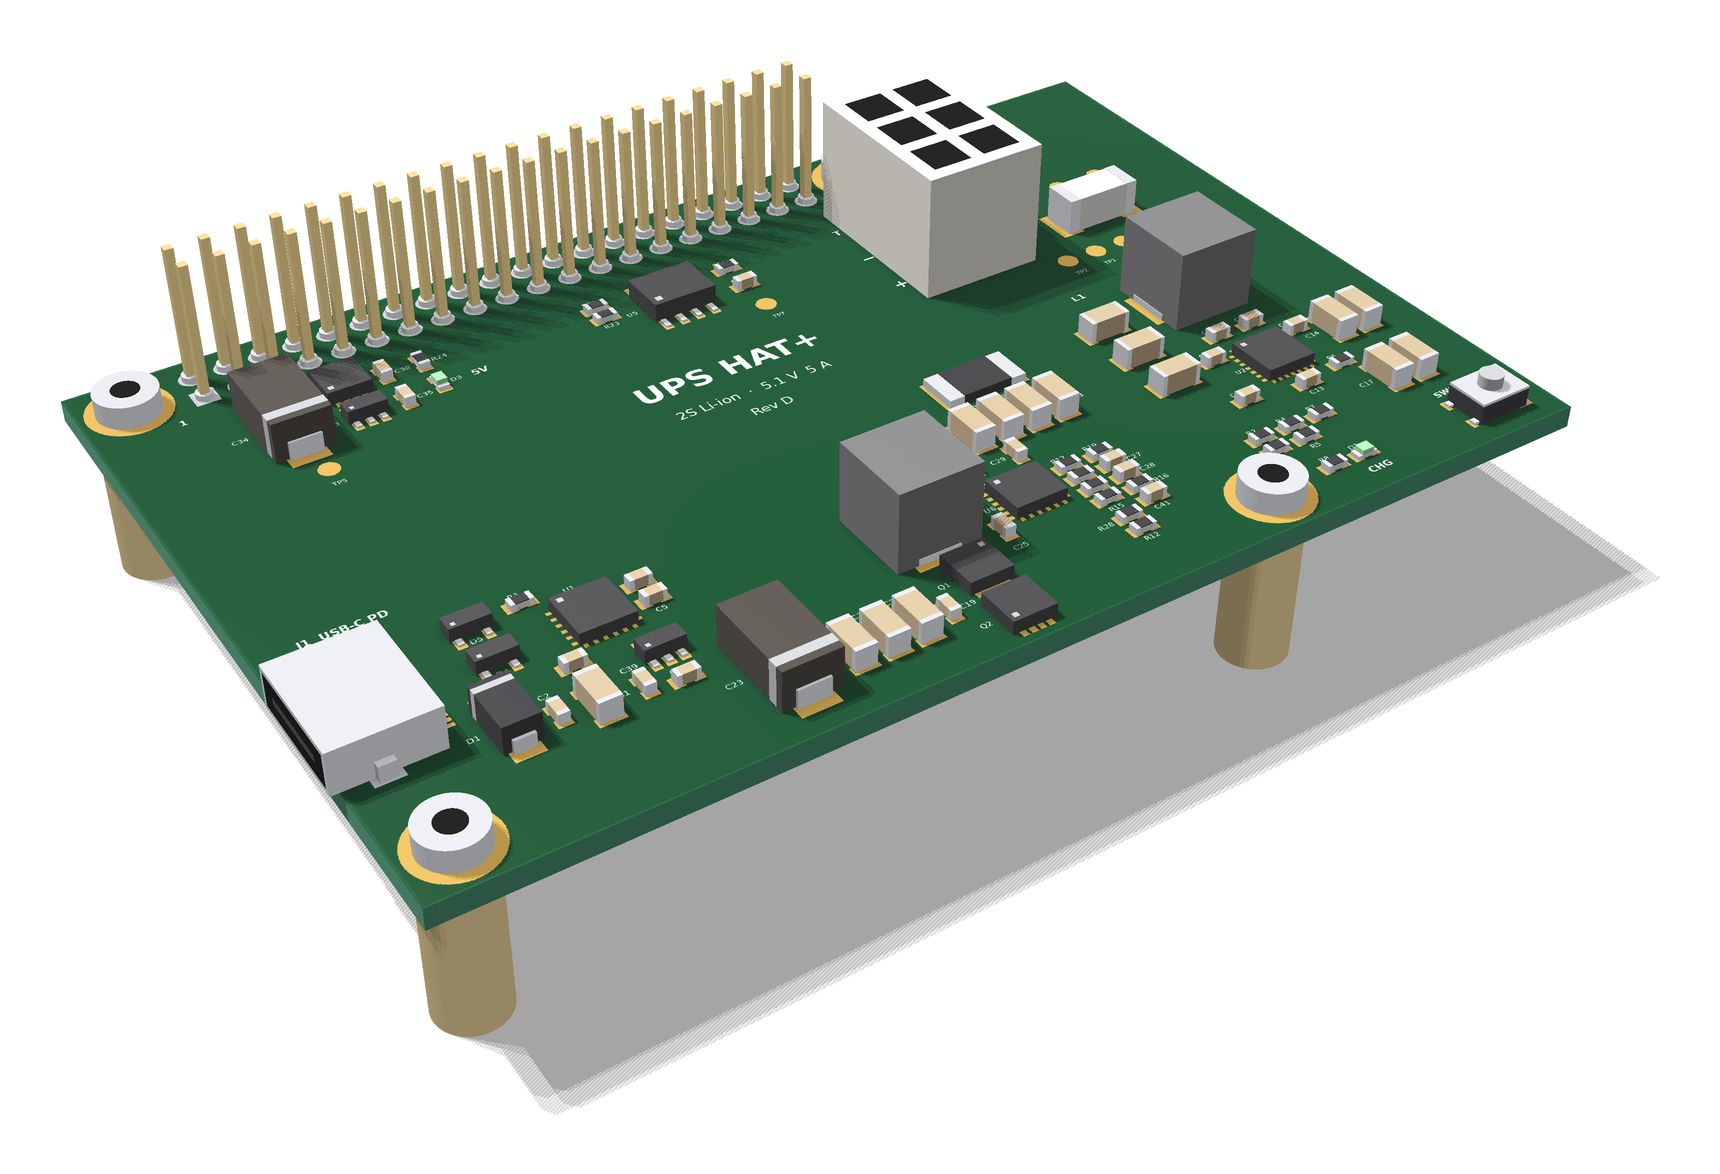
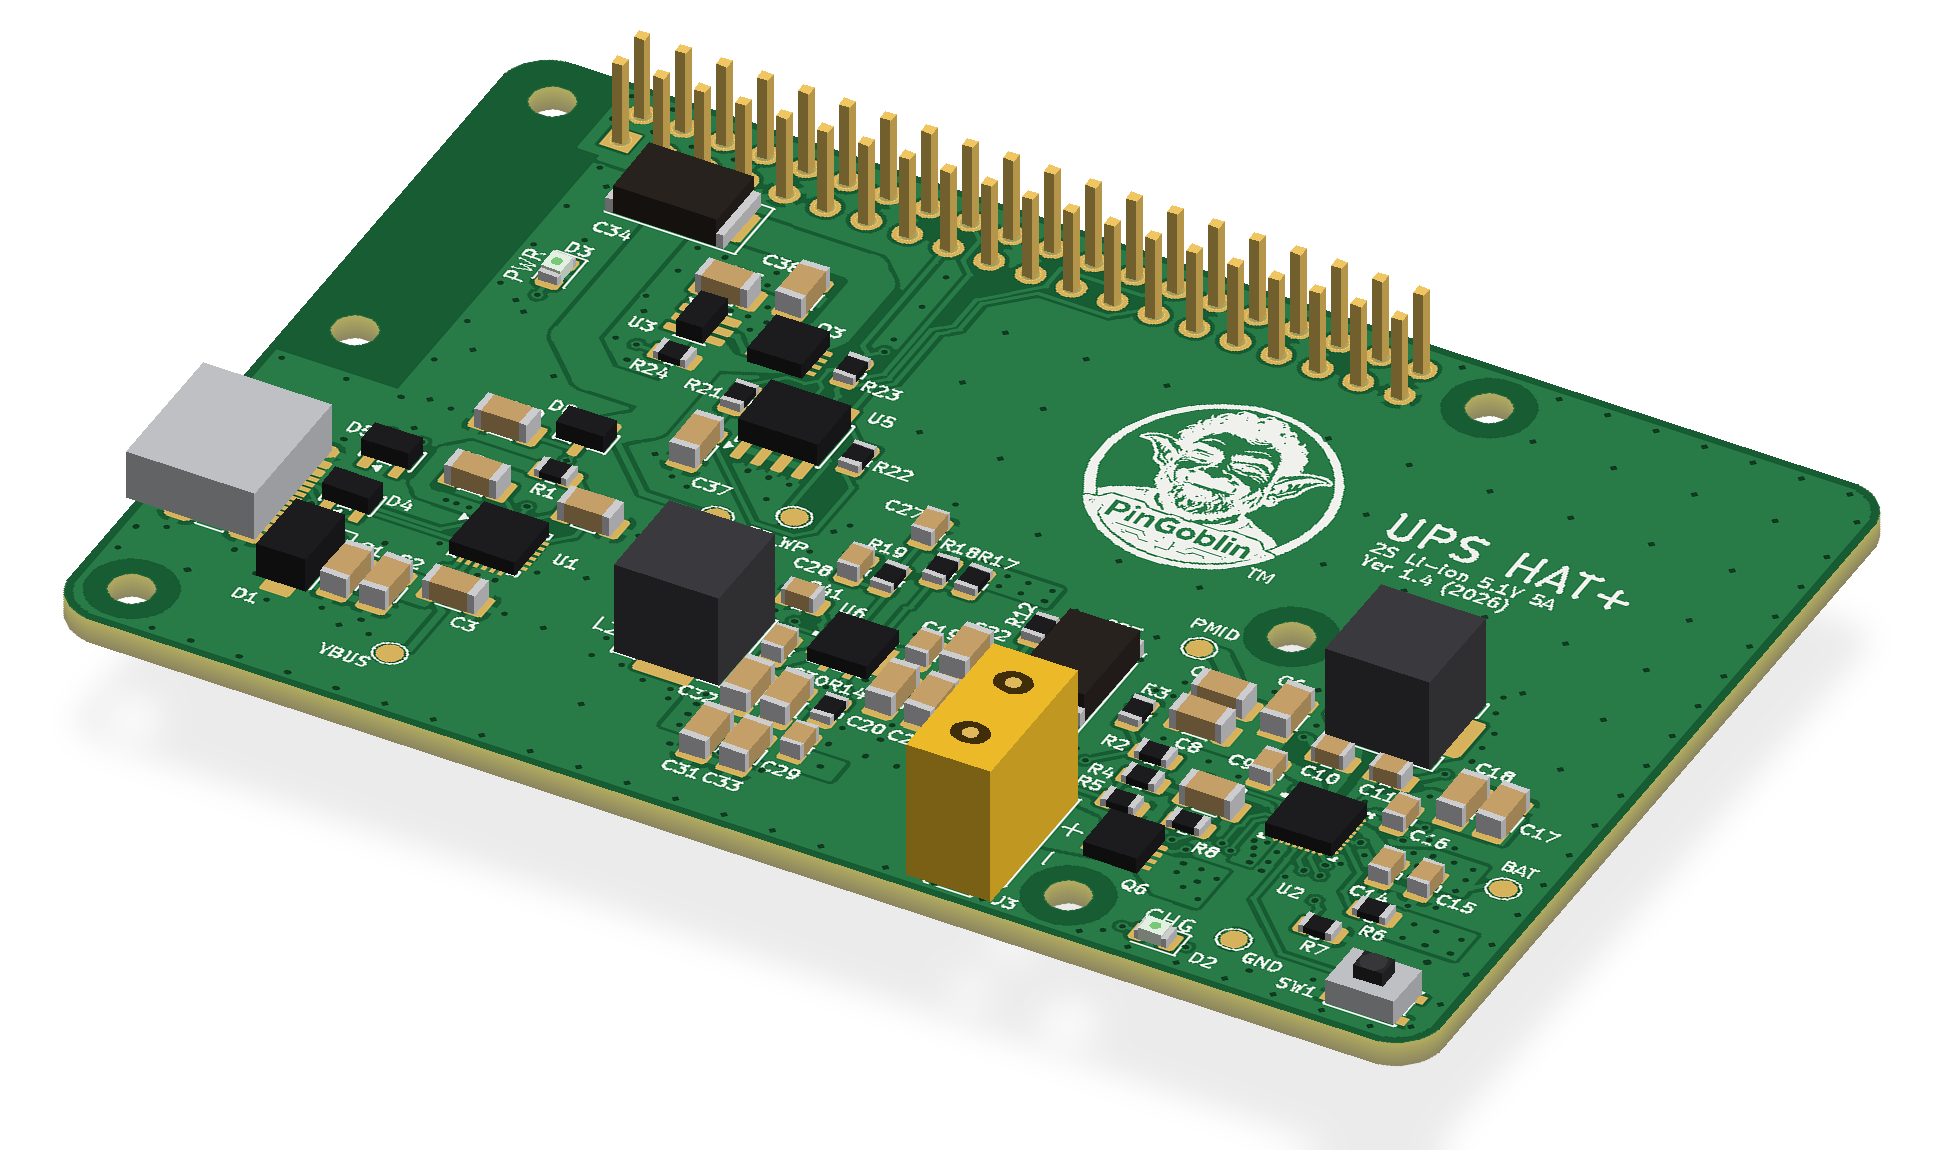
Manual: new board images rendered from the Ver 1.4 production Gerbers
- Angled view (front page) and labelled top view (Board overview) of the current Rev D board,
  replacing the early renders that showed the old 4-way battery terminal.
- Captions rewritten; board overview names the LEDs, button and test pads as marked on
  the silkscreen (PWR, CHG, QON; VBUS, PMID, SYS, BAT, 5V1, GND, EE_WP). The 5V LED is
  now called the PWR LED throughout.

Claude-Session: https://claude.ai/code/session_01XXg2TNVW3rDWtr7LNzpcKF

diff --git a/docs/manual/troubleshooting.md b/docs/manual/troubleshooting.md
@@ -4,13 +4,13 @@
 | --- | --- | --- |
 | Nothing happens when the pack is plugged in | Pack switch OFF; a newly fitted pack, or a pack just switched back ON, that has not yet seen USB-C power; pack below the 6.36 V turn-on; or the pack's protection has switched it off after a deep discharge | Switch the pack ON. Plug in the USB-C adapter: it wakes the board and the pack, and charges the pack. After a ship-mode shutdown, press SW1. |
 | Board runs from the adapter but never from the battery | Pack switched off, a cell missing or reversed, pack over-discharged, or the pack's temperature cut-off is active | Unplug the adapter and the pack. Check the pack switch and each cell's orientation. Let a hot pack cool, then reconnect and charge for at least 30 minutes. |
-| 5V LED off on battery, but on with the adapter | Cells are flat, or the pack's over-discharge protection has switched it off | Charge with the adapter connected for at least 30 minutes. If it still will not run on battery, measure each cell; replace any cell below 2.0 V. |
+| PWR LED off on battery, but on with the adapter | Cells are flat, or the pack's over-discharge protection has switched it off | Charge with the adapter connected for at least 30 minutes. If it still will not run on battery, measure each cell; replace any cell below 2.0 V. |
 | Battery will not charge at all | A cell is above 4.25 V, so the pack blocks charging; or a cell is dead | Measure each cell. Replace a dead or mismatched cell with a new cell matching the other. |
 | Pack switches off by itself | Temperature cut-off (about 60 °C) | Let it cool, then connect the adapter to bring it back. Improve ventilation round the pack, keep it out of the sun and away from the board's hot parts. |
 | CHG LED blinking, battery not charging | Charge fault, such as the charge safety timer expiring or a cell over-voltage | Unplug and reconnect the adapter. If it continues, check each cell's voltage and replace mismatched cells. |
 | i2cdetect -y 1 does not show 6b or 28 | I²C not enabled, or the board is not seated correctly | Enable I²C with sudo raspi-config and reboot. Check the header is not offset by a pin. |
 | ups-hat log shows No such file or directory: /dev/i2c-1 | I²C is not enabled | Enable I²C with sudo raspi-config and reboot. |
-| ups-hat log shows Remote I/O error | The board was off, or another device is holding the bus | Check the 5V LED is on. Remove other I²C HATs and try again. |
+| ups-hat log shows Remote I/O error | The board was off, or another device is holding the bus | Check the PWR LED is on. Remove other I²C HATs and try again. |
 | Battery current reads 0 A, or no readings | The ups-hat service is not running | Start it with sudo systemctl enable --now ups-hat, or install it (see [Raspberry Pi configuration](pi-configuration.md)). |
 | Charging at 8.4 V or 1 A after unplugging the pack | Disconnecting the pack resets the charger to its defaults | Normal. The service re-applies its settings within a few seconds. |
 | Charge % wrong after fitting new cells | The estimate re-calibrates at the next full charge | Charge fully once with the adapter connected, and check that `UPS_HAT_CELLS_PARALLEL` and `UPS_HAT_CELL_MAH` in the service match your pack. |

diff --git a/docs/manual/board-overview.md b/docs/manual/board-overview.md
@@ -4,7 +4,7 @@ Power flows in one direction: USB-C input → charger → system rail (shared wi
 
 ![UPS HAT+ top view with labelled connectors, controls and key components](images/ups-hat-top.png)
 
-*Top view from an earlier placement plan. On production boards the battery connector J3 is a vertical XT30 at the bottom edge, and the protection parts shown near the old terminal are on the pack board instead.*
+*Top view of the Rev D board (Ver 1.4), rendered from the production Gerber files. The 40-pin header J2 is fitted underneath; only its pins show on top. The battery protection is on the UPS Pack board, not on the HAT.*
 
 **Connectors, controls and indicators**
 
@@ -13,10 +13,10 @@ Power flows in one direction: USB-C input → charger → system rail (shared wi
 | J1 | USB-C input | Connect a USB-C power adapter here. Power only, no data. |
 | J2 | 40-pin header | Connects to the Raspberry Pi. Supplies 5.1 V and carries I²C. |
 | J3 | Battery connector (XT30, male) | Takes the pack's XT30 plug: pad 1 GND (−), pad 2 battery +. |
-| SW1 | Power button | Short press: wakes the board from its off (ship) state. Long press (about 15 s): resets power to the Pi. |
-| D2 | Green LED, CHG | On: charging. Off: charge complete or no input. Blinking: charge fault. |
-| D3 | Green LED, 5V | On: 5.1 V output to the Pi is active. |
-| TP1–TP7 | Test pads | For service measurements: VBUS, PMID, SYS, BAT, 5V OUT, GND, EEPROM WP. |
+| SW1 | Power button (marked QON) | Short press: wakes the board from its off (ship) state. Long press (about 15 s): resets power to the Pi. |
+| D2 | Green LED (marked CHG) | On: charging. Off: charge complete or no input. Blinking: charge fault. |
+| D3 | Green LED (marked PWR) | On: 5.1 V output to the Pi is active. |
+| VBUS, PMID, SYS, BAT, 5V1, GND, EE_WP | Test pads | For service measurements, each marked with its signal: USB-C input, charger input, system rail, battery, 5.1 V output, ground and EEPROM write-protect. |
 
 **Battery connector J3 (XT30)**
 

diff --git a/docs/manual/operation.md b/docs/manual/operation.md
@@ -4,11 +4,11 @@ The board has no on-board processor. The Raspberry Pi reads the board over I²C 
 
 | State | What happens | LEDs |
 | --- | --- | --- |
-| Mains power | Adapter powers the Pi and charges the battery. | 5V on; CHG on while charging |
-| Battery power | Battery powers the Pi with no interruption. | 5V on; CHG off |
-| Low battery | The ups-hat service shuts the Pi down at 5 % remaining. | 5V on until shutdown completes |
+| Mains power | Adapter powers the Pi and charges the battery. | PWR on; CHG on while charging |
+| Battery power | Battery powers the Pi with no interruption. | PWR on; CHG off |
+| Low battery | The ups-hat service shuts the Pi down at 5 % remaining. | PWR on until shutdown completes |
 | Off (ship mode) | After a shutdown on battery, the board disconnects the battery. Standby drain is a few microamps. | All off |
-| Hardware cut-off | If no software acts, the output switches off at about 5.6 V pack voltage. | 5V off |
+| Hardware cut-off | If no software acts, the output switches off at about 5.6 V pack voltage. | PWR off |
 
 **Turning on:** plug in the USB-C adapter, or press SW1 briefly to start from battery.
 

diff --git a/docs/manual/installation.md b/docs/manual/installation.md
@@ -9,7 +9,7 @@ You will need four M2.5 standoffs with screws, a USB-C PD adapter that offers 9 
 5. Fix the board to the standoffs with the four screws.
 6. Prepare the pack. With its switch OFF, measure each cell and keep them within 0.1 V of each other. Fit the cells following the + marks: BT1 (and BT3) first, then BT2 (and BT4).
 7. Switch the pack ON and plug its XT30 lead into J3.
-8. Connect the USB-C adapter to J1. The 5V LED lights, the Pi starts, and the CHG LED lights while the cells charge. A newly fitted pack gives no output until the HAT has had USB-C power once, so the first start must be on the adapter.
+8. Connect the USB-C adapter to J1. The PWR LED lights, the Pi starts, and the CHG LED lights while the cells charge. A newly fitted pack gives no output until the HAT has had USB-C power once, so the first start must be on the adapter.
 9. Continue with [Raspberry Pi configuration](pi-configuration.md).
 
 Do not connect a power supply to the Pi's own USB-C port; the board supplies everything the Pi needs. If one is connected by mistake, the board's back-feed blocker stops it driving current into the board.

diff --git a/docs/manual/index.md b/docs/manual/index.md
@@ -4,9 +4,9 @@ The UPS HAT+ keeps a Raspberry Pi running from a 2-cell (2S) lithium-ion battery
 
 This manual covers the UPS HAT+ hardware revision D and its battery, the UPS Pack board Rev B (DUAL or QUAD). Read the [safety section](safety.md) before connecting a battery.
 
-![UPS HAT+ Rev D, 3D view on M2.5 standoffs](images/ups-hat-3d.png)
+![UPS HAT+ Rev D (Ver 1.4), angled view of the top side](images/ups-hat-3d.png)
 
-*UPS HAT+ Rev D on standoffs. Preliminary render from an earlier placement plan: it still shows the old 4-way battery terminal. Production boards have the XT30 battery connector J3 at the bottom edge.*
+*UPS HAT+ Rev D (board marking Ver 1.4). The USB-C input is on the left edge, the 40-pin header's pins come through along the top edge, and the yellow XT30 battery connector J3 is at the bottom edge. Rendered from the production Gerber files.*
 
 ## Contents
 
